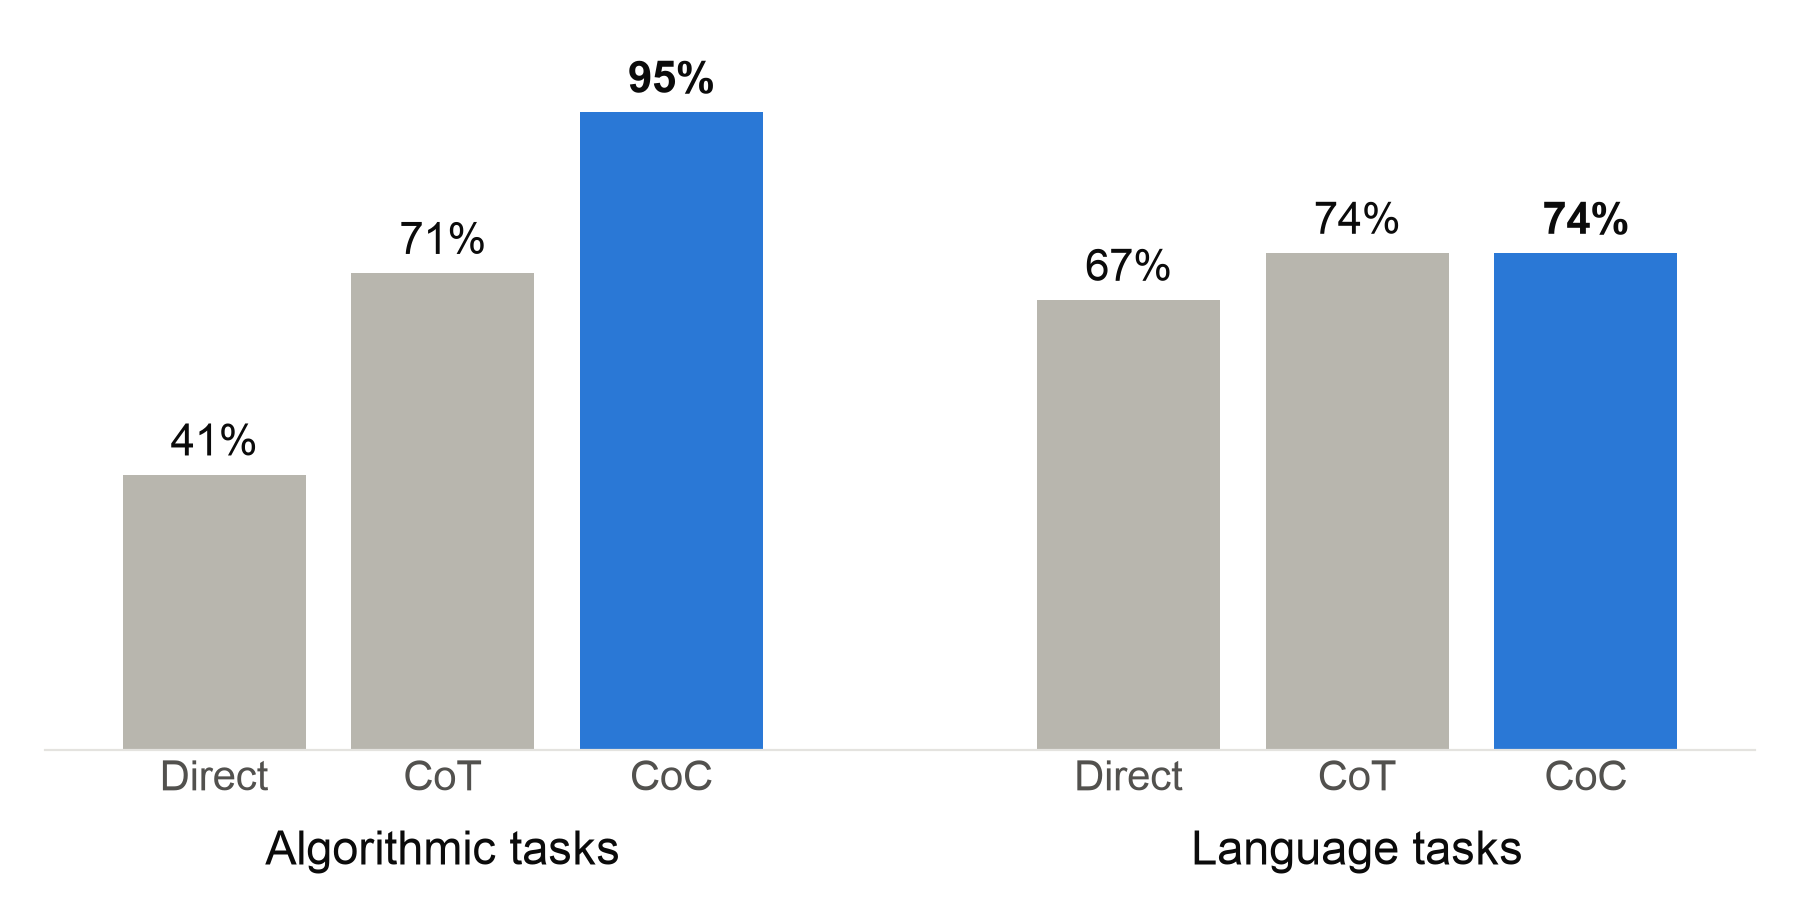
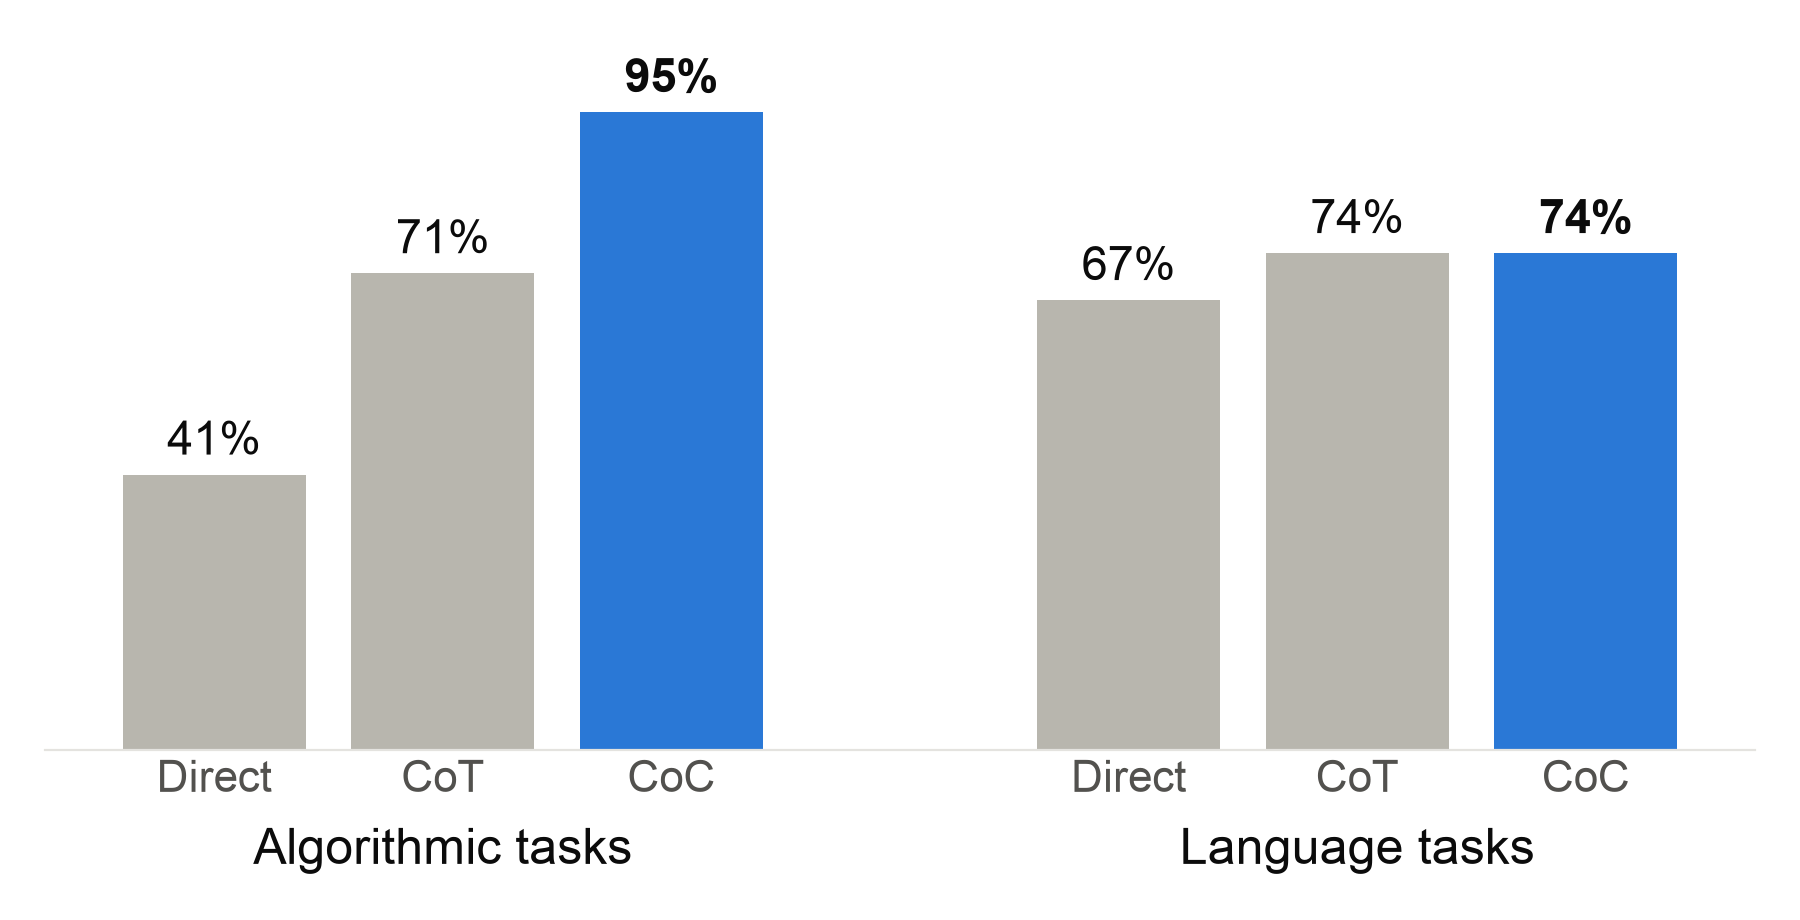
Add demo results, summary, and references slides
Slide 8 shows the birthday demo question and two charts of the 30
random-date results (answers right per method; CoT facts/math/choices
vs. CoC facts), drawn by make_charts.py from the results CSV. Slide 9
is the summary and conclusion. References add BIG-Bench Hard and the
Qwen2.5-Coder report, with hanging indents. Regenerated the task-type
chart with the larger fonts.

diff --git a/docs/slides.html b/docs/slides.html
@@ -263,18 +263,51 @@
 <aside><div>
 <p><a href="https://arxiv.org/abs/2312.04474">Data from Table 2, Li et al., ICML 2024</a></p>
 </div></aside></section>
-<section id="the-idea" class="slide level2">
-<h2>The idea</h2>
-<p>Text for your second slide.</p>
+<section id="how-does-it-actually-work-birthday-demo" class="slide level2 small-title">
+<h2>How does it actually work? Birthday Demo</h2>
+<div style="font-size: 60%;">
+<blockquote>
+<p>Of the birthdays of Banting, Curie, Darwin, Einstein, Gauss, Hawking, Lovelace, Rutherford, Tesla, and Turing that are at least 100 days before or after <strong>15 March 2027</strong>, whose is closest?</p>
+</blockquote>
+<p>Qwen2.5-Coder 7B (base model) on a laptop · three worked examples per method</p>
+</div>
+<div class="columns">
+<div class="column" style="text-align: center; font-size: 60%;">
+<p><strong>Correct answers, 30 random dates</strong></p>
+<p><img data-src="images/demo-answers.png" style="width:92.0%"></p>
+</div><div class="column" style="text-align: center; font-size: 60%;">
+<p><strong>Steps correct: facts vs.&nbsp;math</strong></p>
+<p><img data-src="images/demo-steps.png" style="width:92.0%"></p>
+</div></div>
 </section>
+<section id="summary-and-conclusion" class="slide level2">
+<h2>Summary and Conclusion</h2>
+<div class="middle" style="font-size: 85%;">
+<ul>
+<li>LLMs know facts, but are shaky at exact math</li>
+<li>Chain of Code: the LM writes code; Python runs what it can, the LM emulates the rest</li>
+<li>Paper: 84% on BIG-Bench Hard, vs.&nbsp;72% for Chain of Thought</li>
+<li>Our demo (7B model): 30/30 vs.&nbsp;3/30, with the same facts, but Python doing the math</li>
+<li>Limit: works best when the examples come from the same kind of problem</li>
+</ul>
+</div>
+
+<aside><div>
+<p><a href="https://arxiv.org/abs/2312.04474">Paper results: Table 1 from Li et al., ICML 2024</a></p>
+</div></aside></section>
 <section id="references" class="slide level2">
 <h2>References</h2>
+<div class="references" style="font-size: 60%;">
 <p>Li, C., Liang, J., Zeng, A., Chen, X., Hausman, K., Sadigh, D., Levine, S., Fei-Fei, L., Xia, F., &amp; Ichter, B. (2024). <em>Chain of Code: Reasoning with a Language Model-Augmented Code Emulator.</em> Proceedings of the 41st International Conference on Machine Learning (ICML), PMLR 235.</p>
 <ul>
 <li>Paper: <a href="https://arxiv.org/abs/2312.04474" class="uri">https://arxiv.org/abs/2312.04474</a></li>
 <li>Project page: <a href="https://chain-of-code.github.io/" class="uri">https://chain-of-code.github.io/</a></li>
 </ul>
+<p>Suzgun, M., Scales, N., Schärli, N., Gehrmann, S., et al.&nbsp;(2022). <em>Challenging BIG-Bench Tasks and Whether Chain-of-Thought Can Solve Them.</em> arXiv:2210.09261. <a href="https://arxiv.org/abs/2210.09261" class="uri">https://arxiv.org/abs/2210.09261</a></p>
+<p>Hui, B., Yang, J., Cui, Z., Yang, J., et al.&nbsp;(2024). <em>Qwen2.5-Coder Technical Report.</em> arXiv:2409.12186. <a href="https://arxiv.org/abs/2409.12186" class="uri">https://arxiv.org/abs/2409.12186</a><br>
+Demo model: qwen2.5-coder:7b-base via Ollama, <a href="https://ollama.com/library/qwen2.5-coder" class="uri">https://ollama.com/library/qwen2.5-coder</a></p>
 <p>Fan, J. (2024, July 25). Post on X about frontier models failing “9.11 vs 9.9”. <a href="https://x.com/DrJimFan/status/1816521330298356181" class="uri">https://x.com/DrJimFan/status/1816521330298356181</a></p>
+</div>
 
 </section>
     </div>

diff --git a/docs/styles.css b/docs/styles.css
@@ -47,3 +47,12 @@
 .reveal .small-text > p {
   margin-bottom: 0.2em;
 }
+
+/* References: hanging indent for each entry, and indented sub-bullets: ::: {.references} */
+.reveal .references p {
+  padding-left: 2em;
+  text-indent: -2em;
+}
+.reveal .references ul {
+  margin-left: 3em;
+}

diff --git a/styles.css b/styles.css
@@ -47,3 +47,12 @@
 .reveal .small-text > p {
   margin-bottom: 0.2em;
 }
+
+/* References: hanging indent for each entry, and indented sub-bullets: ::: {.references} */
+.reveal .references p {
+  padding-left: 2em;
+  text-indent: -2em;
+}
+.reveal .references ul {
+  margin-left: 3em;
+}

diff --git a/make_charts.py b/make_charts.py
@@ -1,7 +1,12 @@
-"""Draw the two results bar charts for the slides (data from Li et al., ICML 2024).
+"""Draw the results bar charts for the slides.
+
+The first two use data from Li et al., ICML 2024; the demo charts read our
+own results from results/random-30-seed-2026.csv (made by rehearse.py).
 
 Usage: uv run --with matplotlib make_charts.py
 """
+
+import csv
 
 import matplotlib.pyplot as plt
 
@@ -71,6 +76,40 @@ def ablation_chart():
     fig.savefig("images/results-ablation.png", transparent=True)
 
 
+def demo_charts(path="results/random-30-seed-2026.csv"):
+    """Our demo on 30 random dates: answers right, and steps right."""
+    with open(path) as f:
+        rows = list(csv.DictReader(f))
+
+    def total(column):
+        return sum(int(r[column]) for r in rows)
+
+    def bars(items, filename):
+        fig, ax = plt.subplots(figsize=(6, 4.6), dpi=200)
+        for x, (label, right, out_of, is_coc) in enumerate(items):
+            percent = round(100 * right / out_of)
+            ax.bar(x, percent, width=0.7, color=BLUE if is_coc else GRAY)
+            ax.text(x, percent + 2, f"{percent}%\n({right}/{out_of})", ha="center", va="bottom",
+                    fontsize=17, fontweight="bold" if is_coc else "normal")
+        ax.set_xticks(range(len(items)), [label for label, *_ in items])
+        ax.tick_params(axis="x", length=0, labelsize=18, labelcolor=INK)
+        ax.set_ylim(0, 125)
+        ax.set_yticks([])
+        clean_axes(ax)
+        fig.tight_layout()
+        fig.savefig(f"images/{filename}", transparent=True)
+
+    n = len(rows)
+    bars([("Direct", total("Direct correct"), n, False),
+          ("CoT", total("Chain of Thought correct"), n, False),
+          ("CoC", total("Chain of Code correct"), n, True)], "demo-answers.png")
+    bars([("CoT\nfacts", total("CoT fact right"), total("CoT fact checked"), False),
+          ("CoT\nmath", total("CoT math right"), total("CoT math checked"), False),
+          ("CoT\nchoices", total("CoT choice right"), total("CoT choice checked"), False),
+          ("CoC\nfacts", total("CoC birthdays right"), total("CoC birthdays checked"), True)], "demo-steps.png")
+
+
 if __name__ == "__main__":
     task_type_chart()
     ablation_chart()
+    demo_charts()
